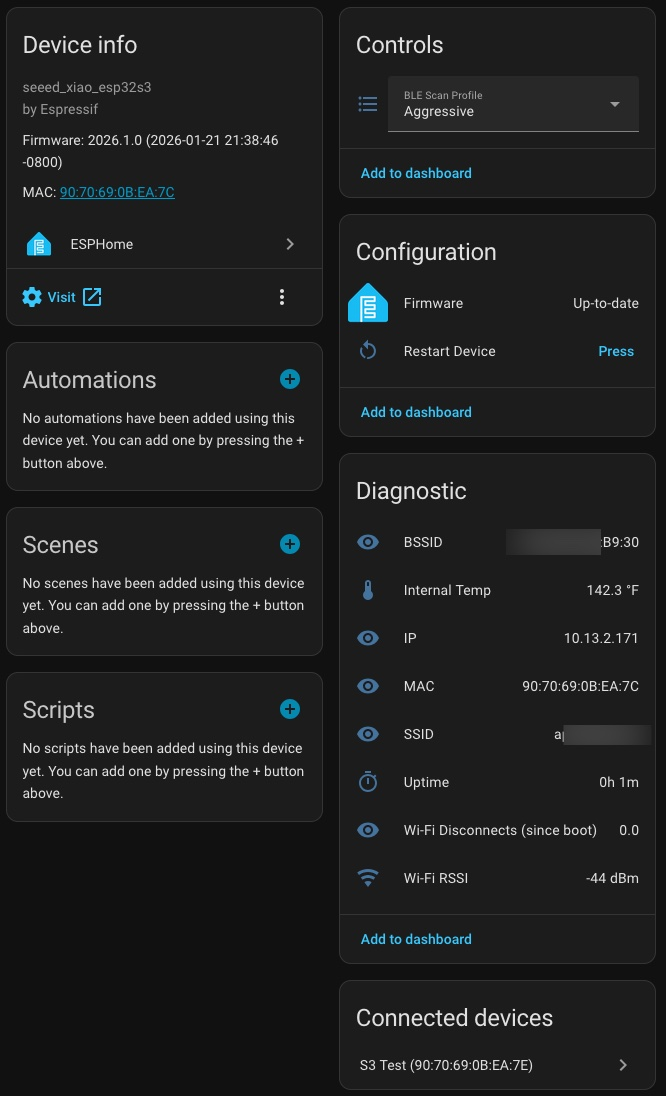
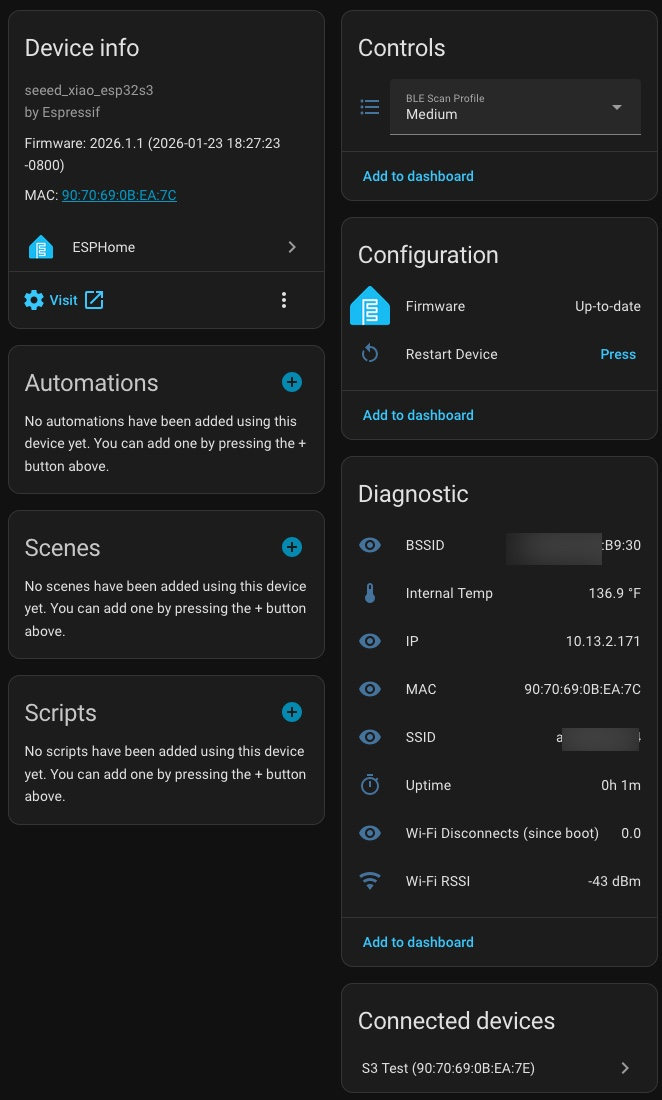
Update BLE scan profiles to Low/Medium/High
- Change BLE scan profiles from Aggressive/Balanced to Low/Medium/High
- Low: 9% duty cycle, Medium: 28% (default), High: 50%
- Update documentation to reflect new scan profile options
- Update screenshot to reflect new BLE Scan Profile selector

🤖 Generated with [Claude Code](https://claude.com/claude-code)

diff --git a/README.md b/README.md
@@ -46,8 +46,9 @@ What the base config provides:
 - Wi‑Fi: uses `!secret` for `wifi_ssid`, `wifi_password`, and `wifi_captive`; provides fallback captive AP settings with disconnect tracking.
 
 - BLE: enables BLE scanning and Bluetooth proxying with configurable scan profiles:
-  - **Aggressive** (default): 160ms interval, 160ms window (100% duty cycle) for maximum presence detection accuracy
-  - **Balanced**: 320ms interval, 160ms window (50% duty cycle) for reduced power consumption
+  - **Low**: 320ms interval, 30ms window (9% duty cycle) — minimal power consumption
+  - **Medium** (default): 320ms interval, 90ms window (28% duty cycle) — balanced performance
+  - **High**: 320ms interval, 160ms window (50% duty cycle) — maximum presence detection accuracy
   - Profile selection persists across reboots
 
 - Sensors: uptime, internal temperature, Wi‑Fi RSSI, Wi‑Fi info (BSSID, IP, SSID, MAC), Wi-Fi disconnects (since boot), and SNTP time.
@@ -141,7 +142,7 @@ Here's what the device looks like in Home Assistant's ESPHome integration:
 The device page shows:
 
 - **Device info**: Board type, firmware version, and MAC address
-- **Controls**: BLE Scan Profile selector (Aggressive/Balanced) and Restart Device button
+- **Controls**: BLE Scan Profile selector (Low/Medium/High) and Restart Device button
 - **Configuration**: Firmware management and OTA updates
 - **Diagnostic**: BSSID, internal temperature, IP address, MAC address, SSID, uptime, Wi-Fi disconnects (since boot), and Wi-Fi RSSI
 

diff --git a/examples/common/README-s3-base.md b/examples/common/README-s3-base.md
@@ -61,9 +61,10 @@ Key sections and what they do
 
   - `esp32_ble_tracker` and `bluetooth_proxy`: enable BLE scanning and proxying for Home Assistant presence detection.
 
-  - BLE scan parameters are configurable via a `select` entity with two profiles:
-    - **Aggressive** (default): 160ms interval, 160ms window (100% duty cycle) — maximum presence detection accuracy
-    - **Balanced**: 320ms interval, 160ms window (50% duty cycle) — reduced power consumption
+  - BLE scan parameters are configurable via a `select` entity with three profiles:
+    - **Low**: 320ms interval, 30ms window (9% duty cycle) — minimal power consumption
+    - **Medium** (default): 320ms interval, 90ms window (28% duty cycle) — balanced performance
+    - **High**: 320ms interval, 160ms window (50% duty cycle) — maximum presence detection accuracy
     - Profile selection persists across reboots via `restore_value: true`
 
 - `sensor` / `text_sensor` / `time` / `globals`:
